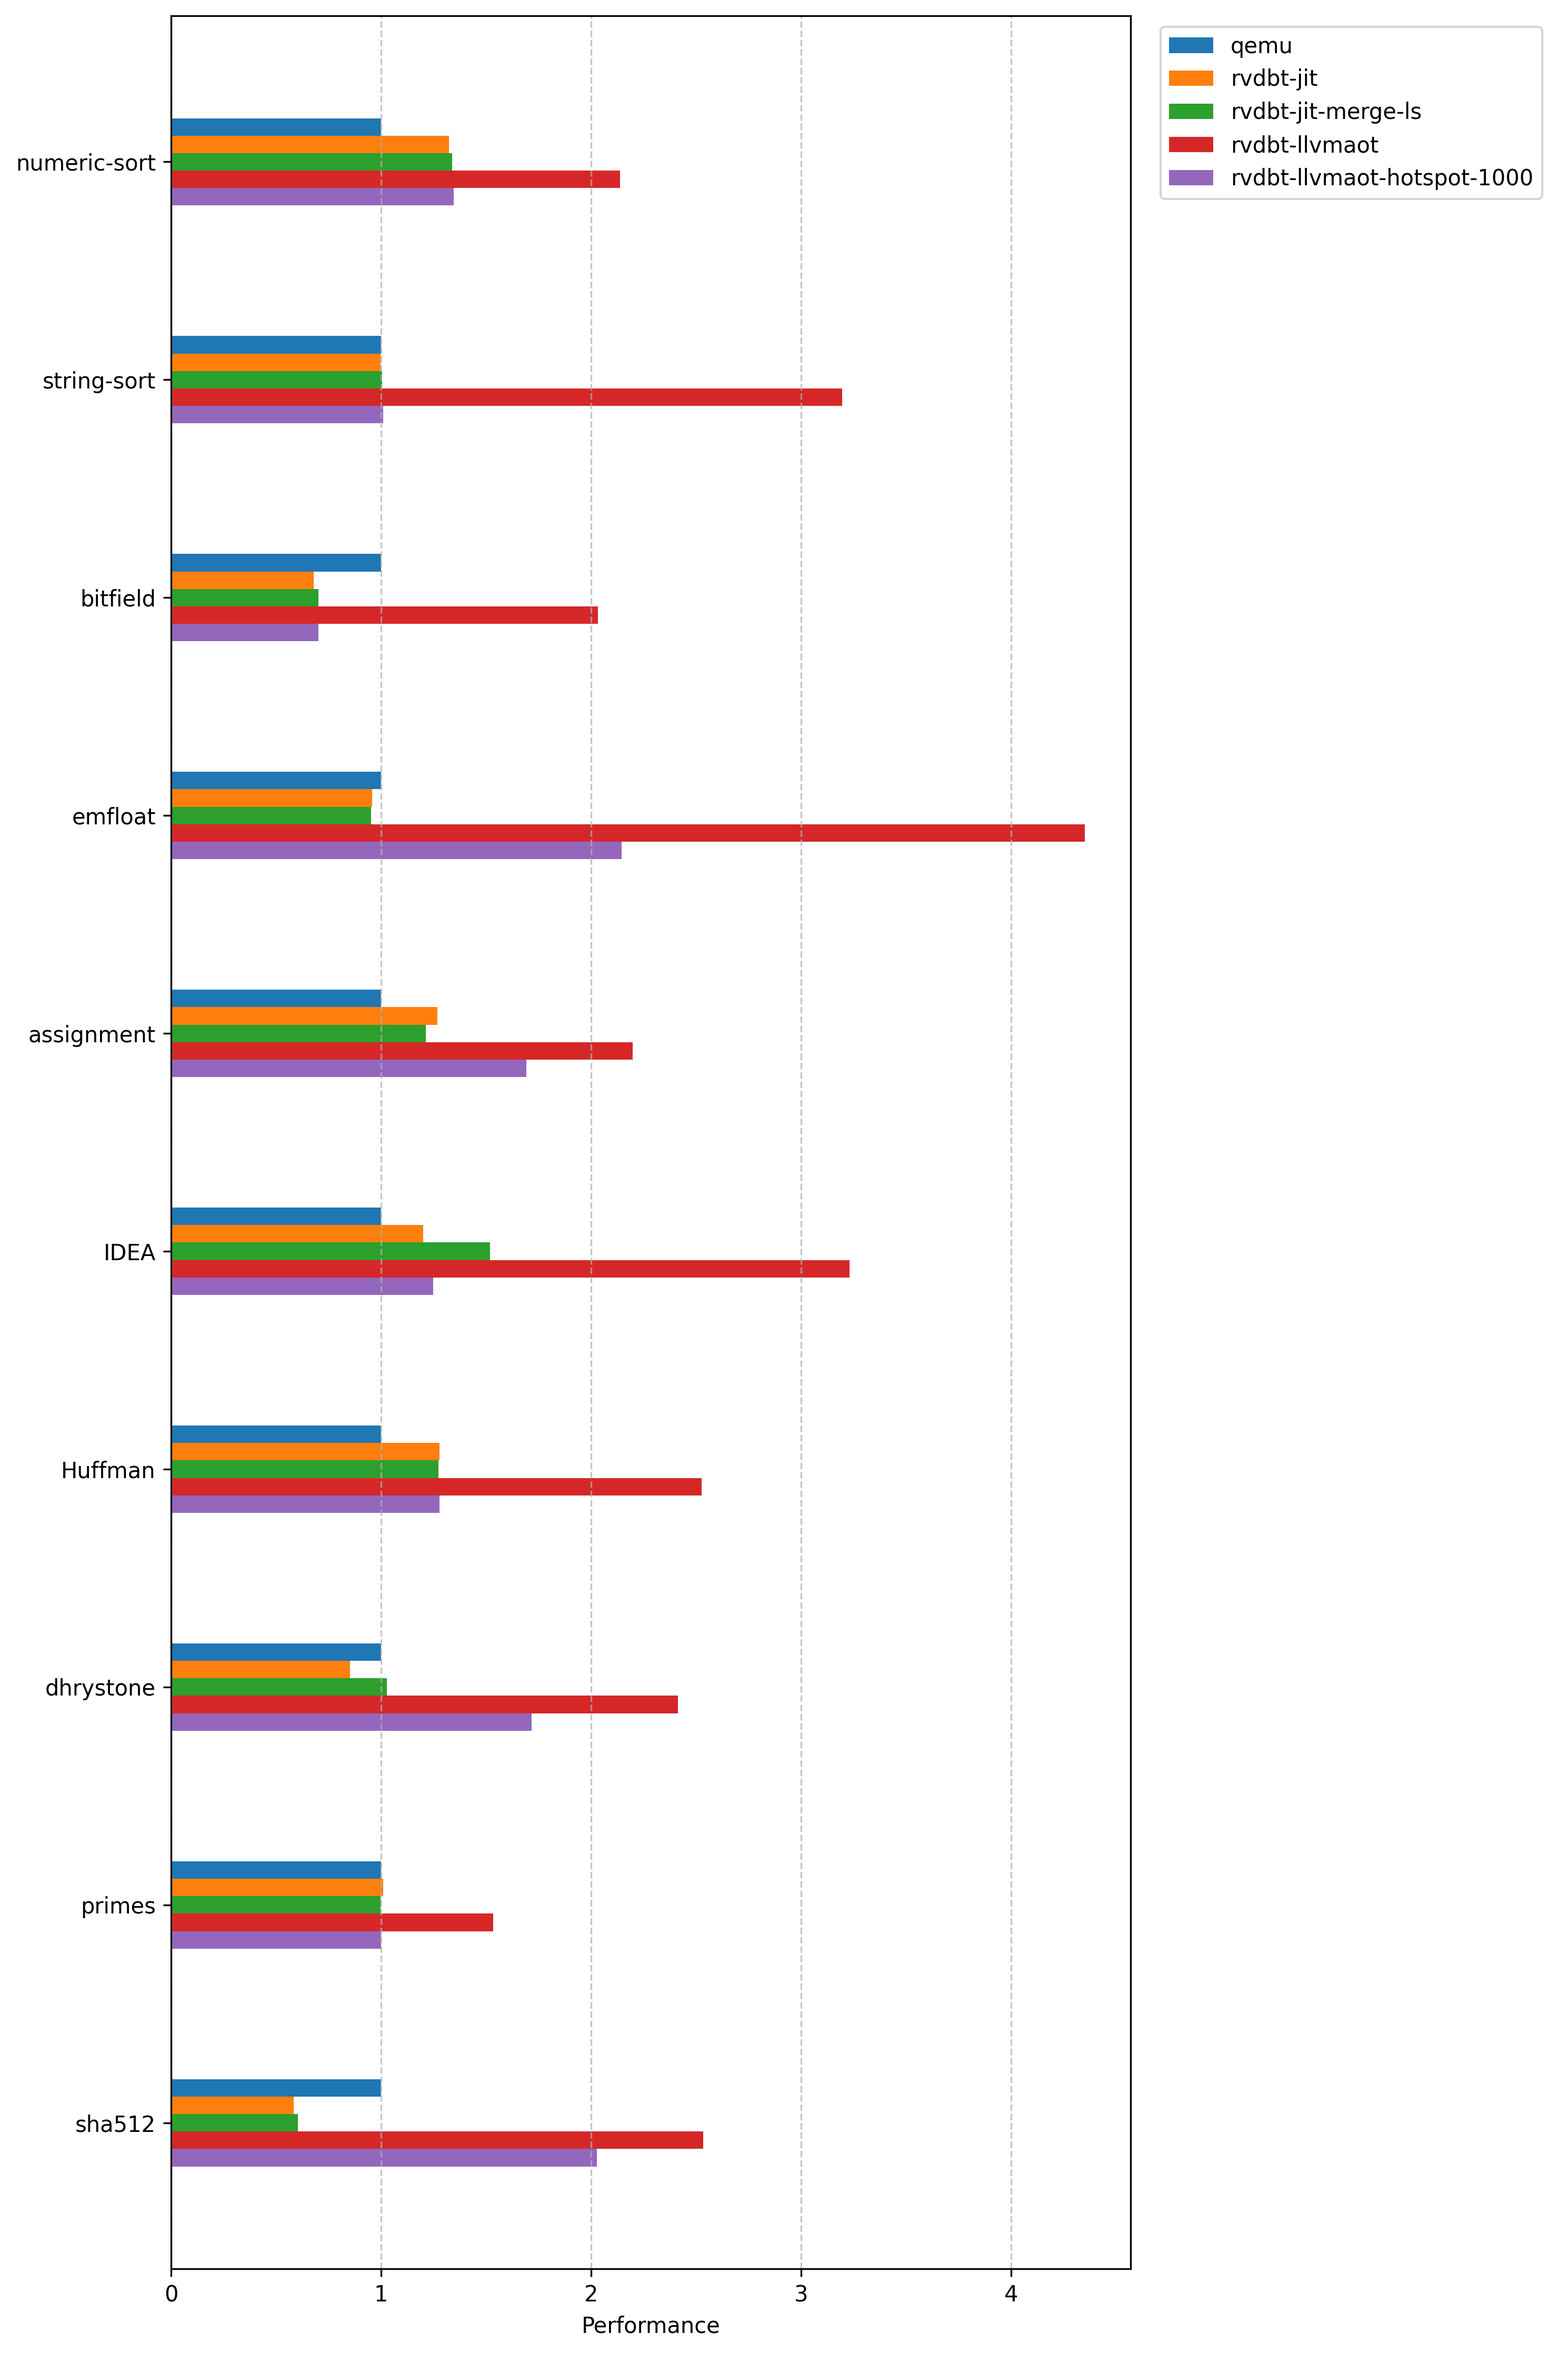
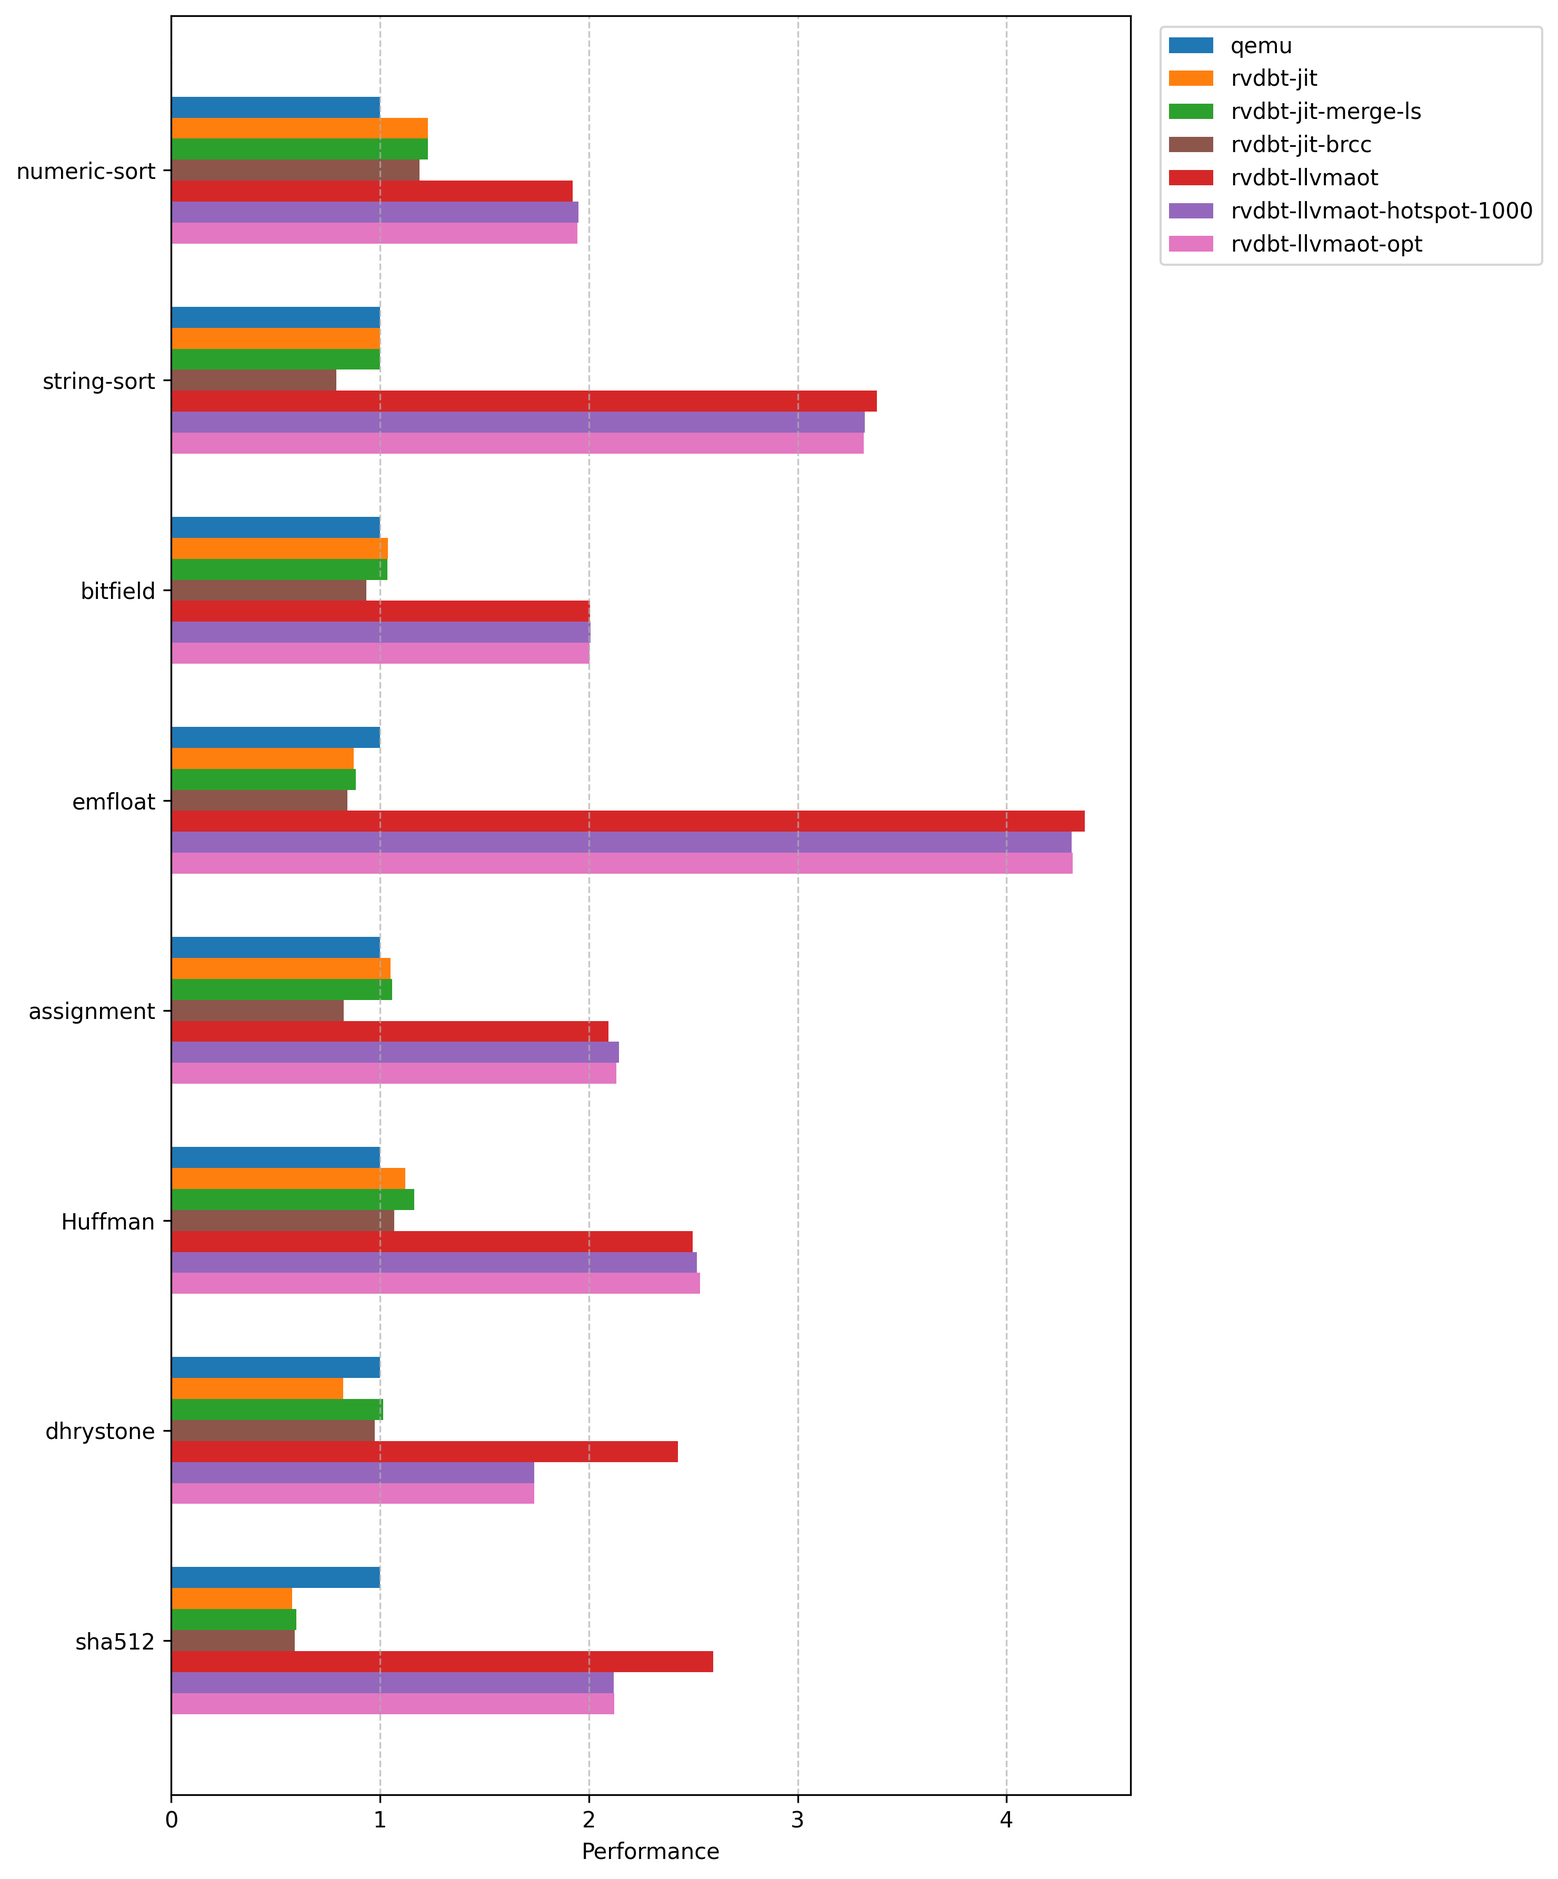
parameterize caching brcc and test

diff --git a/examples/benchmarks.py b/examples/benchmarks.py
@@ -105,7 +105,7 @@ class LIBRISCVExec(BaseExec):
 class RVDBTExec(BaseExec):
     build_dir = None
 
-    def __init__(self, aot, llvm=False, hotspot_threshold=0, jit_merge_ls=False, llvmopt=False):
+    def __init__(self, aot, llvm=False, hotspot_threshold=0, jit_merge_ls=False, llvmopt=False, brcc=True):
         super().__init__()
         self.name = "rvdbt-" + ("jit", ("qcgaot", "llvmaot")[llvm])[aot] + ("", "-opt")[llvmopt]
         if jit_merge_ls:
@@ -117,6 +117,7 @@ class RVDBTExec(BaseExec):
         self.hotspot_threshold = hotspot_threshold
         self.jit_merge_ls = jit_merge_ls
         self.llvmopt = llvmopt
+        self.brcc = brcc
     def setup(self, root, cmd):
         super().setup(root, cmd)
         if not self.aot:
@@ -144,6 +145,7 @@ class RVDBTExec(BaseExec):
                  "--fsroot=" + self.root]
         if self.aot:
             pargs += ["--logs=aot"]
+        pargs += ["--brcc=" + ("off", "on")[self.brcc]]
         pargs += ["--aot=" + ("off", "on")[self.aot]]
         pargs += ["--merge-ls=" + ("off", "on")[self.jit_merge_ls]]
         pargs += ["--"] + self.args
@@ -181,7 +183,7 @@ class Benchmark:
             exec.ofile = self.ofile
         if "rvdbt-llvmaot" in exec.name: # if setup with elfaot and success, then change the modulegraph.gv into name
             print(f"Renaming modulegraph.gv `to {self.name}.gv")
-            os.rename(RVDBTExec.build_dir + "/logs/modulegraph.gv", RVDBTExec.build_dir + "/logs/" + self.name + ".gv")
+            os.rename(RVDBTExec.build_dir + "/logs/modulegraph.gv", RVDBTExec.build_dir + "/logs/" + self.name + "_" + exec.name + ".gv")
         exec.run()
         if self.ofile is not None and os.path.isfile(self.ofile):
             os.rename(self.ofile, self.get_ofile(exec))
@@ -277,15 +279,15 @@ def GetBenchmarks_Coremark(prebuilts_dir):
 def GetBenchmarks_RV32EMU(prebuilts_dir):
     b: list[Benchmark] = []
     root = os.path.join(prebuilts_dir + "/rv32emu-workload")
-    b.append(Benchmark(root + "/", ["nbench", "0"], name="numeric-sort"))
-    b.append(Benchmark(root + "/", ["nbench", "1"], name="string-sort"))
-    b.append(Benchmark(root + "/", ["nbench", "2"], name="bitfield"))
-    b.append(Benchmark(root + "/", ["nbench", "3"], name="emfloat"))
-    b.append(Benchmark(root + "/", ["nbench", "5"], name="assignment"))
+    # b.append(Benchmark(root + "/", ["nbench", "0"], name="numeric-sort"))
+    # b.append(Benchmark(root + "/", ["nbench", "1"], name="string-sort"))
+    # b.append(Benchmark(root + "/", ["nbench", "2"], name="bitfield"))
+    # b.append(Benchmark(root + "/", ["nbench", "3"], name="emfloat"))
+    # b.append(Benchmark(root + "/", ["nbench", "5"], name="assignment"))
     # b.append(Benchmark(root + "/", ["nbench", "6"], name="IDEA"))
-    b.append(Benchmark(root + "/", ["nbench", "7"], name="Huffman"))
+    # b.append(Benchmark(root + "/", ["nbench", "7"], name="Huffman"))
     b.append(Benchmark(root + "/", ["dhrystone"]))
-    b.append(Benchmark(root + "/", ["primes"], cmp_out=True))
+    # b.append(Benchmark(root + "/", ["primes"], cmp_out=True))
     b.append(Benchmark(root + "/", ["sha512"]))
     return b
 
@@ -308,15 +310,15 @@ def GetBenchmarks_RV32IA(prebuilts_dir):
 def GetBenchmarks_RV32I(prebuilts_dir):
     b: list[Benchmark] = []
     root = os.path.join(prebuilts_dir + "/rv32emu-i")
-    b.append(Benchmark(root + "/", ["nbench", "0"], name="numeric-sort"))
-    b.append(Benchmark(root + "/", ["nbench", "1"], name="string-sort"))
-    b.append(Benchmark(root + "/", ["nbench", "2"], name="bitfield"))
-    b.append(Benchmark(root + "/", ["nbench", "3"], name="emfloat"))
-    b.append(Benchmark(root + "/", ["nbench", "5"], name="assignment"))
-    b.append(Benchmark(root + "/", ["nbench", "6"], name="IDEA"))
-    b.append(Benchmark(root + "/", ["nbench", "7"], name="Huffman"))
+    # b.append(Benchmark(root + "/", ["nbench", "0"], name="numeric-sort"))
+    # b.append(Benchmark(root + "/", ["nbench", "1"], name="string-sort"))
+    # b.append(Benchmark(root + "/", ["nbench", "2"], name="bitfield"))
+    # b.append(Benchmark(root + "/", ["nbench", "3"], name="emfloat"))
+    # b.append(Benchmark(root + "/", ["nbench", "5"], name="assignment"))
+    # b.append(Benchmark(root + "/", ["nbench", "6"], name="IDEA"))
+    # b.append(Benchmark(root + "/", ["nbench", "7"], name="Huffman"))
     b.append(Benchmark(root + "/", ["dhrystone"]))
-    b.append(Benchmark(root + "/", ["primes"], cmp_out=True))
+    # b.append(Benchmark(root + "/", ["primes"], cmp_out=True))
     b.append(Benchmark(root + "/", ["sha512"], cmp_out=True))
     return b
 
@@ -404,9 +406,15 @@ def RunTests(opts):
     def get_execs(): 
         execs = [QEMUExec()]  # QEMU is always included as reference
         if opts.rvdbt_jit:
-            execs.append(RVDBTExec(False))  # JIT mode
+            execs.append(RVDBTExec(False, brcc=False, jit_merge_ls=False))  # JIT mode
+        if opts.rvdbt_jit_no_brcc:
+            execs.append(RVDBTExec(False, brcc=False, jit_merge_ls=True))  # JIT mode
+        if opts.rvdbt_llvmaot_hotspot:
+            execs.append(RVDBTExec(True, llvm=True, hotspot_threshold=100))  # JIT merge ls mode
         if opts.rvdbt_jit_merge_ls:
-            execs.append(RVDBTExec(False, jit_merge_ls=True))  # JIT merge ls mode
+            execs.append(RVDBTExec(False, brcc=True, jit_merge_ls=True))  # JIT merge ls mode
+        if opts.rvdbt_llvmaot_hotspot:
+            execs.append(RVDBTExec(True, llvm=True, hotspot_threshold=101))  # JIT merge ls mode
         if opts.rvdbt_qcgaot:
             execs.append(RVDBTExec(True, False))  # QCG AOT
         if opts.rvdbt_llvmaot:
@@ -457,12 +465,14 @@ def main():
     op.add_option("--libriscv-build-dir", dest="libriscv_build_dir")
     op.add_option("--prebuilts", dest="prebuilts_dir")
     # Add new options for execution modes
+    op.add_option("--rvdbt-jit-no-brcc", action="store_true", dest="rvdbt_jit_no_brcc", default=False)
     op.add_option("--rvdbt-jit", action="store_true", dest="rvdbt_jit", default=False)
     op.add_option("--rvdbt-jit-merge-ls", action="store_true", dest="rvdbt_jit_merge_ls", default=False)
     op.add_option("--rvdbt-qcgaot", action="store_true", dest="rvdbt_qcgaot", default=False)
     op.add_option("--rvdbt-llvmaot", action="store_true", dest="rvdbt_llvmaot", default=False)
     op.add_option("--rvdbt-llvmaot-1000", action="store_true", dest="rvdbt_llvmaot_1000", default=False)
     op.add_option("--rvdbt-llvmaot-opt", action="store_true", dest="rvdbt_llvmaot_opt", default=False)
+    op.add_option("--rvdbt-llvmaot-hotspot", action="store_true", dest="rvdbt_llvmaot_hotspot", default=False)
     op.add_option("--libriscv", action="store_true", dest="libriscv", default=False)
     # set objective to "benchmark" or "test"
     op.add_option("--objective", dest="objective", type="choice", 

diff --git a/examples/plot.py b/examples/plot.py
@@ -18,17 +18,35 @@ def process_benchmark_data():
 # dhrystone,1.000,0.864,0.839,2.374,1.348
 # primes,1.000,1.003,0.978,1.837,1.100
 # sha512,1.000,0.588,0.525,2.319,1.022"""
-    data = """benchmark-name,qemu,rvdbt-jit,rvdbt-jit-merge-ls,rvdbt-llvmaot,rvdbt-llvmaot-hotspot-1000
-numeric-sort,1.000,1.324,1.339,2.137,1.345
-string-sort,1.000,0.998,1.005,3.196,1.010
-bitfield,1.000,0.678,0.702,2.033,0.702
-emfloat,1.000,0.956,0.953,4.351,2.146
-assignment,1.000,1.267,1.212,2.197,1.692
-IDEA,1.000,1.201,1.520,3.232,1.249
-Huffman,1.000,1.277,1.274,2.526,1.279
-dhrystone,1.000,0.853,1.028,2.414,1.717
-primes,1.000,1.011,0.997,1.534,1.000
-sha512,1.000,0.583,0.603,2.534,2.028"""
+#     data = """benchmark-name,qemu,rvdbt-jit,rvdbt-jit-merge-ls,rvdbt-llvmaot,rvdbt-llvmaot-hotspot-1000
+# numeric-sort,1.000,1.324,1.339,2.137,1.345
+# string-sort,1.000,0.998,1.005,3.196,1.010
+# bitfield,1.000,0.678,0.702,2.033,0.702
+# emfloat,1.000,0.956,0.953,4.351,2.146
+# assignment,1.000,1.267,1.212,2.197,1.692
+# IDEA,1.000,1.201,1.520,3.232,1.249
+# Huffman,1.000,1.277,1.274,2.526,1.279
+# dhrystone,1.000,0.853,1.028,2.414,1.717
+# primes,1.000,1.011,0.997,1.534,1.000
+# sha512,1.000,0.583,0.603,2.534,2.028"""
+#     data="""benchmark-name,qemu,rvdbt-jit-merge-ls,rvdbt-llvmaot,rvdbt-llvmaot-hotspot-1000,rvdbt-llvmaot-opt
+# numeric-sort,1.000,1.179,1.927,1.953,1.949
+# string-sort,1.000,0.779,3.371,3.315,3.326
+# bitfield,1.000,0.955,2.001,2.000,2.001
+# emfloat,1.000,0.803,4.335,4.288,4.310
+# assignment,1.000,0.779,2.088,2.137,2.135
+# Huffman,1.000,1.059,2.525,2.488,2.485
+# dhrystone,1.000,0.948,2.455,1.752,1.754
+# sha512,1.000,0.583,2.656,2.113,2.115"""
+    data="""benchmark-name,qemu,rvdbt-jit,rvdbt-jit-merge-ls,rvdbt-jit-brcc,rvdbt-llvmaot,rvdbt-llvmaot-hotspot-1000,rvdbt-llvmaot-opt
+numeric-sort,1.000,1.230,1.230,1.188,1.922,1.949,1.946
+string-sort,1.000,1.001,1.000,0.792,3.378,3.320,3.317
+bitfield,1.000,1.039,1.035,0.934,2.006,2.007,2.002
+emfloat,1.000,0.874,0.883,0.843,4.374,4.312,4.317
+assignment,1.000,1.050,1.058,0.827,2.093,2.143,2.132
+Huffman,1.000,1.122,1.164,1.069,2.496,2.517,2.532
+dhrystone,1.000,0.823,1.014,0.974,2.426,1.738,1.738
+sha512,1.000,0.579,0.600,0.592,2.595,2.118,2.121"""
 #     data = """benchmark-name,qemu,rvdbt-jit,rvdbt-qcgaot,rvdbt-llvmaot,rvlinux-bt
 # sha512,1.000,0.583,0.520,2.550,1.039"""
 #     data = """benchmark-name,qemu,rvlinux-bt
@@ -70,7 +88,7 @@ def plot_benchmark_comparison(df, output_path='benchmark_comparison.png'):
     positions = [np.arange(len(df['benchmark-name'])) + (n_executors - 1 - i) * bar_height for i in range(n_executors)]
 
     # Color scheme
-    colors = ['#1f77b4', '#ff7f0e', '#2ca02c', '#d62728', '#9467bd']
+    colors = ['#1f77b4', '#ff7f0e', '#2ca02c', '#8c564b', '#d62728', '#9467bd', '#e377c2']
 
     # Create horizontal bars
     for i, (executor, color) in enumerate(zip(executors, colors)):

diff --git a/dbt/qmc/qcg/qemit.cpp b/dbt/qmc/qcg/qemit.cpp
@@ -153,6 +153,7 @@ void QEmit::Prologue(u32 ip)
 {
 	// j.int3();
 	_entry_ip = ip;
+	_entry_ip_hash = tcache::l1hash(ip) << 4;
 	FrameSetup();
 }
 
@@ -199,9 +200,10 @@ void QEmit::Emit_Cache()
 	auto tmp2 = asmjit::x86::r12;
 	log_qcg("Emit_brcc: %08x", _entry_ip);
 	j.mov(tmp0.r64(), R_STATE);
-	j.mov(tmp1.r64(), asmjit::Imm(_entry_ip)); // move jump target to tmp0
-	j.lea(tmp1.r32(), asmjit::x86::ptr(0, tmp1.r64(), 2)); // tmp1 = (f_id << 2)
-	j.and_(tmp1.r32(), ((1ull << tcache::L1_CACHE_BITS) - 1) << 4); // tmp1 = (f_id & ((1 << L1_CACHE_BITS) - 1)) << 4
+	// j.mov(tmp1.r64(), asmjit::Imm(_entry_ip)); // move jump target to tmp0
+	// j.lea(tmp1.r32(), asmjit::x86::ptr(0, tmp1.r64(), 2)); // tmp1 = (f_id << 2)
+	// j.and_(tmp1.r32(), ((1ull << tcache::L1_CACHE_BITS) - 1) << 4); // tmp1 = (f_id & ((1 << L1_CACHE_BITS) - 1)) << 4
+	j.mov(tmp1.r32(), _entry_ip_hash);
 
 	if (jit_mode) {
 		j.mov(tmp2.r64(), (uptr)tcache::cache_tb_exec_count.data());
@@ -217,7 +219,8 @@ void QEmit::Emit_br(qir::InstBr *ins)
 	auto bb_s = bb->GetSuccs().at(0);
 	auto bb_ff = &*++bb->getIter();
 
-	Emit_Cache();
+	if (dbt::config::brcc)
+		Emit_Cache();
 
 	if (bb_s != bb_ff) {
 		j.jmp(labels[bb_s->GetId()]);
@@ -249,12 +252,14 @@ void QEmit::Emit_brcc(qir::InstBrcc *ins)
 	j.emit(jcc, jump_bb_t);
 
 	if (bb_f != bb_ff) {
-		Emit_Cache();
+		if (dbt::config::brcc)
+			Emit_Cache();
 		j.jmp(labels[bb_f->GetId()]);
 	}
 	j.jmp(end);
 	j.bind(jump_bb_t);
-	Emit_Cache();
+	if (dbt::config::brcc)
+		Emit_Cache();
 	j.jmp(labels[bb_t->GetId()]);
 
 	j.bind(end);

diff --git a/dbt/elfrun.cpp b/dbt/elfrun.cpp
@@ -17,6 +17,7 @@ struct ElfRunOptions {
 	std::string cache{};
 	bool use_aot{};
 	bool merge_ls{};
+	bool brcc{};
 	std::string logs{};
 };
 
@@ -60,7 +61,8 @@ static bool ParseOptions(ElfRunOptions &o, int argc, char **argv)
 	    ("fsroot", bpo::value(&o.fsroot)->required(), "isolated path for emulated process")
 	    ("cache",  bpo::value(&o.cache)->required(), "dbt cache path")
 	    ("aot",    bpo::value(&o.use_aot)->default_value(false), "boot aot file if available")
-	    ("merge-ls", bpo::value(&o.merge_ls)->default_value(false), "merge load/store instructions");
+	    ("merge-ls", bpo::value(&o.merge_ls)->default_value(false), "merge load/store instructions")
+	    ("brcc", bpo::value(&o.brcc)->default_value(false), "enable brcc cache");
 	// clang-format on
 
 	try {
@@ -101,7 +103,8 @@ int main(int argc, char **argv)
 	}
 	auto gargs = opts.guest_args;
 	dbt::config::merge_ls = opts.merge_ls;
-
+	dbt::config::brcc = opts.brcc;
+	
 	SetupLogger(opts.logs);
 
 	dbt::fsmanager::Init(opts.cache.c_str());

diff --git a/dbt/config.h b/dbt/config.h
@@ -29,4 +29,5 @@ static constexpr bool dump_trace = true;
 static constexpr bool dump_trace = false;
 #endif
 inline bool merge_ls = false;
+inline bool brcc = false;
 } // namespace dbt::config

diff --git a/dbt/qmc/qcg/qemit.h b/dbt/qmc/qcg/qemit.h
@@ -72,6 +72,7 @@ private:
 
 	std::vector<asmjit::Label> labels;
 	u32 _entry_ip;
+	u32 _entry_ip_hash;
 };
 
 }; // namespace dbt::qcg
